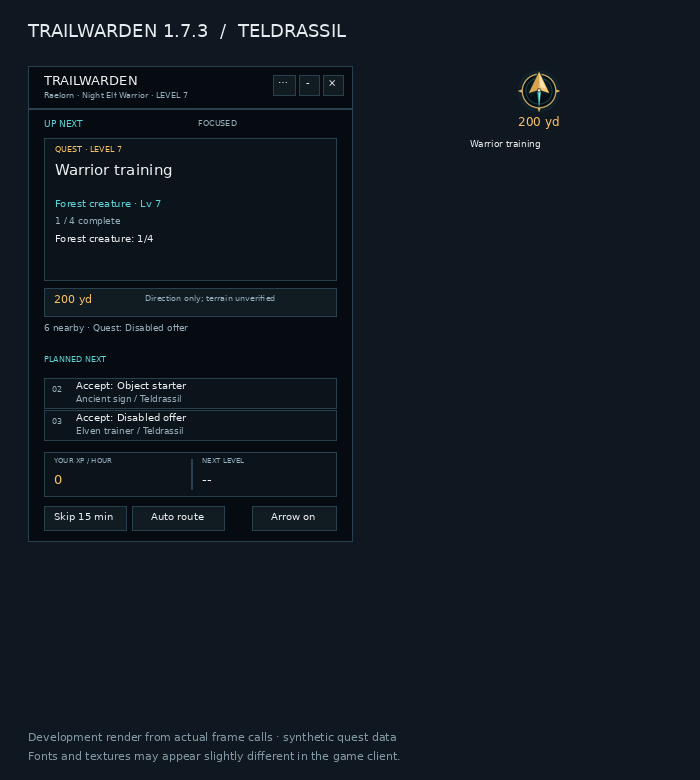
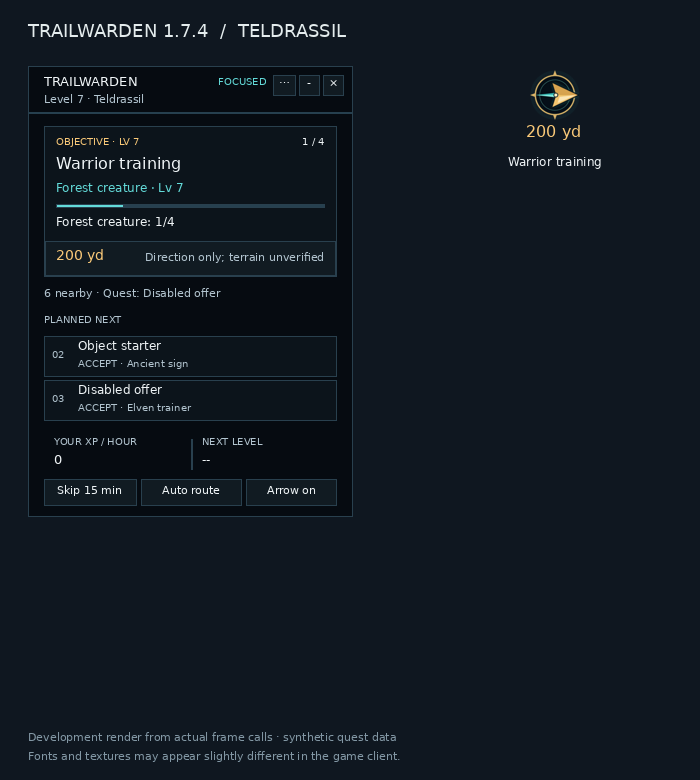
Polish route readability, progress and navigator layout for 1.7.4

diff --git a/tools/render_ui.py b/tools/render_ui.py
@@ -1,6 +1,7 @@
 """Inspect the real frame layout recorded by tests; this is not a WoW screenshot."""
 import json
 import re
+import math
 from pathlib import Path
 from PIL import Image, ImageDraw, ImageFont
 root=Path(__file__).resolve().parents[1]
@@ -34,10 +35,12 @@ for subject in ('nightelf','dwarf','settings','empty','compact','cave'):
         if not show: continue
         x,y,w,h=map(round,box)
         if node['bg'] and node['kind']!='font':
+            draw=ImageDraw.Draw(image)
             draw.rectangle((x,y,x+w,y+h),fill=color(node['bg'],(20,35,44,255)),outline=(41,64,78,255) if h>2 else None)
         if node['kind']=='font' and node['text']:
             font=ImageFont.truetype(font_path,int(node['font']));lines=[]
             for line in node['text'].split('\n'):
+                if not node.get('wrap',True): lines.append(line);continue
                 words=line.split();current=''
                 for word in words:
                     value=(current+' '+word).strip()
@@ -45,10 +48,19 @@ for subject in ('nightelf','dwarf','settings','empty','compact','cave'):
                     else:current=value
                 lines.append(current)
             tile=Image.new('RGBA',(max(1,w),max(1,h)),(0,0,0,0));td=ImageDraw.Draw(tile)
-            for i,line in enumerate(lines): td.text((0,i*int(node['font']*1.25)-2),line,font=font,fill=color(node['color'],(235,240,240,255)))
+            line_height=int(node['font']*1.25)
+            align_y=node.get('justifyV','MIDDLE')
+            top=0 if align_y=='TOP' else h-len(lines)*line_height if align_y=='BOTTOM' else (h-len(lines)*line_height)/2
+            for i,line in enumerate(lines):
+                align_x=node.get('justifyH','LEFT');length=font.getlength(line)
+                left=w-length if align_x=='RIGHT' else (w-length)/2 if align_x=='CENTER' else 0
+                td.text((round(left),round(top+i*line_height-2)),line,font=font,fill=color(node['color'],(235,240,240,255)))
             image.alpha_composite(tile,(x,y))
         if node['texture'].endswith('Arrow.tga'):
-            arrow=Image.open(root/'Trailwarden/Media/Arrow.tga').convert('RGBA').resize((w,h));image.alpha_composite(arrow,(x,y))
+            arrow=Image.open(root/'Trailwarden/Media/Arrow.tga').convert('RGBA').resize((w,h))
+            arrow=arrow.rotate(math.degrees(node.get('rotation',0)),resample=Image.Resampling.BICUBIC)
+            image.alpha_composite(arrow,(x,y))
+    draw=ImageDraw.Draw(image)
     draw.text((28,730),'Development render from actual frame calls · synthetic quest data',font=ImageFont.truetype(font_path,11),fill='#8398a5')
     draw.text((28,749),'Fonts and textures may appear slightly different in the game client.',font=ImageFont.truetype(font_path,11),fill='#8398a5')
     out=root/f'docs/previews/{subject}.png';out.parent.mkdir(parents=True,exist_ok=True);image.convert('RGB').save(out)

diff --git a/README.md b/README.md
@@ -6,6 +6,10 @@ A calm quest-routing companion that resumes from **the character you are playing
 
 **[Download the latest installable version](https://github.com/CodeByNiko/trailwarden-wow-forever/releases/latest)**
 
+## New in 1.7.4: easier to read at a glance
+
+Larger text, clearer contrast and a content-sized quest card put the current objective first. Progress uses a count and a slim bar; distance is part of the same card. Planned steps separate the quest name from its action, while the collapsed guide retains your current quest and distance. Navigator captions are larger and preferences use aligned labels and values.
+
 ## New in 1.7.3: compact routes and clearer estimates
 
 The route panel uses a tighter layout, shows objective progress at a glance and keeps route details in the hover explanation. The navigator has a redesigned compass pointer. Quest-cycle estimates reduce unnecessary backtracking, while live XP/hour and next-level time wait for a five-minute active sample.
@@ -35,7 +39,7 @@ Nearby eligible quest offers are retained as opportunities. Escort offers wait u
 
 ## Install or update
 
-1. Download `Trailwarden-1.7.3-Forever.zip` under the release's **Assets**.
+1. Download `Trailwarden-1.7.4-Forever.zip` under the release's **Assets**.
 2. Exit WoW. Replace `Interface/AddOns/Trailwarden` with the `Trailwarden` folder inside the ZIP.
 3. Keep **QuestieDB for Forever**, **Questie** and your existing **OpenMap** enabled. Questie supplies the map-pin library; the core quest planner still requires QuestieDB.
 4. Start the game. Your character's route and navigator appear automatically. For an upgrade from Wayfinder, migrate your saved settings as described below.

diff --git a/Trailwarden/README.md b/Trailwarden/README.md
@@ -4,6 +4,10 @@ A calm quest-routing companion that resumes from **the character you are playing
 
 **[Download the latest installable version](https://github.com/CodeByNiko/trailwarden-wow-forever/releases/latest)**
 
+## New in 1.7.4: easier to read at a glance
+
+Larger text, clearer contrast and a content-sized quest card put the current objective first. Progress uses a count and a slim bar; distance is part of the same card. Planned steps separate the quest name from its action, while the collapsed guide retains your current quest and distance. Navigator captions are larger and preferences use aligned labels and values.
+
 ## New in 1.7.3: compact routes and clearer estimates
 
 The route panel uses a tighter layout, shows objective progress at a glance and keeps route details in the hover explanation. The navigator has a redesigned compass pointer. Quest-cycle estimates reduce unnecessary backtracking, while live XP/hour and next-level time wait for a five-minute active sample.
@@ -33,7 +37,7 @@ Nearby eligible quest offers are retained as opportunities. Escort offers wait u
 
 ## Install or update
 
-1. Download `Trailwarden-1.7.3-Forever.zip` under the release's **Assets**.
+1. Download `Trailwarden-1.7.4-Forever.zip` under the release's **Assets**.
 2. Exit WoW. Replace `Interface/AddOns/Trailwarden` with the `Trailwarden` folder inside the ZIP.
 3. Keep **QuestieDB for Forever**, **Questie** and your existing **OpenMap** enabled. Questie supplies the map-pin library; the core quest planner still requires QuestieDB.
 4. Start the game. Your character's route and navigator appear automatically. For an upgrade from Wayfinder, migrate your saved settings as described below.

diff --git a/docs/release-notes-1.7.4.md b/docs/release-notes-1.7.4.md
@@ -1,0 +1,16 @@
+# Trailwarden 1.7.4
+
+A focused readability and layout update for the route guide and navigator.
+
+- Larger objective and instruction text with clearer contrast. Long quest names keep their font size, with full details on hover.
+- One current-step card combines the quest, target, progress and navigation distance. Card height follows the actual content; long instructions and safety warnings grow instead of being cut off.
+- A slim progress bar and count show how much of the current objective is complete.
+- Planned steps separate the quest name from its action and target. Preferences align labels and values for easier scanning.
+- The collapsed guide keeps the current quest and fresh distance visible.
+- The transparent compass navigator has larger distance and two-line captions. "IN AREA" means you reached the objective area; it does not mark the quest complete.
+
+The route planner, quest priorities and XP calculations are unchanged. Automated frame-layout tests and synthetic previews cover the display changes; final appearance still needs a check in the WoW client.
+
+Extract `Trailwarden-1.7.4-Forever.zip` into `Interface/AddOns` so the path is
+`Interface/AddOns/Trailwarden/Trailwarden.toc`. Keep QuestieDB for Forever enabled.
+Targets Forever 1.60.1 (Interface 16001).

diff --git a/Trailwarden/CHANGELOG.md b/Trailwarden/CHANGELOG.md
@@ -1,5 +1,15 @@
 # Changelog
 
+## 1.7.4
+
+- Increase objective, instruction, queue and navigator text sizes; improve secondary-text contrast.
+- Fit the current card to its actual title, target and instruction height, with distance integrated into the card.
+- Show a proportional objective progress bar and a numeric count; hide it for steps without counts.
+- Separate planned quest names from their action/target, with hover feedback and readable truncation.
+- Keep the current quest and fresh distance visible when collapsed.
+- Align preference labels and values, and let long instructions and warnings grow without clipping.
+- Retain the transparent compass pointer with larger distance and two-line captions; arrival reads "IN AREA".
+
 ## 1.7.3
 
 - Fix non-terminating multi-goal forecasts, bound route optimization and reject malformed/non-finite projection data.
